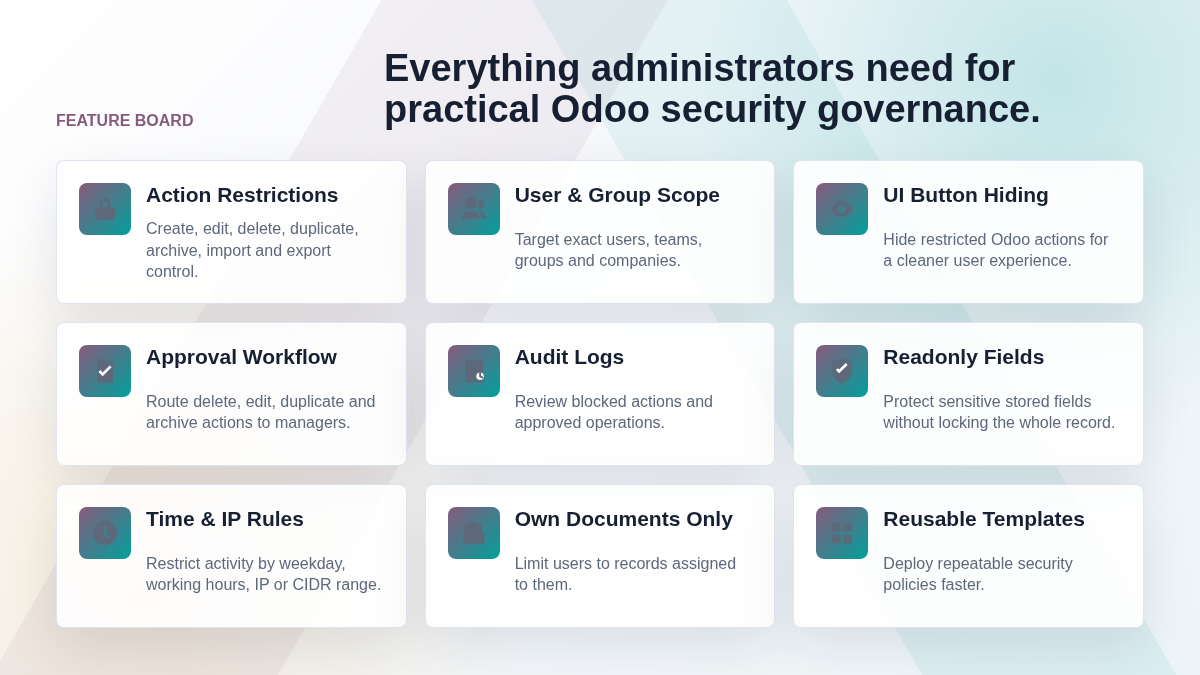
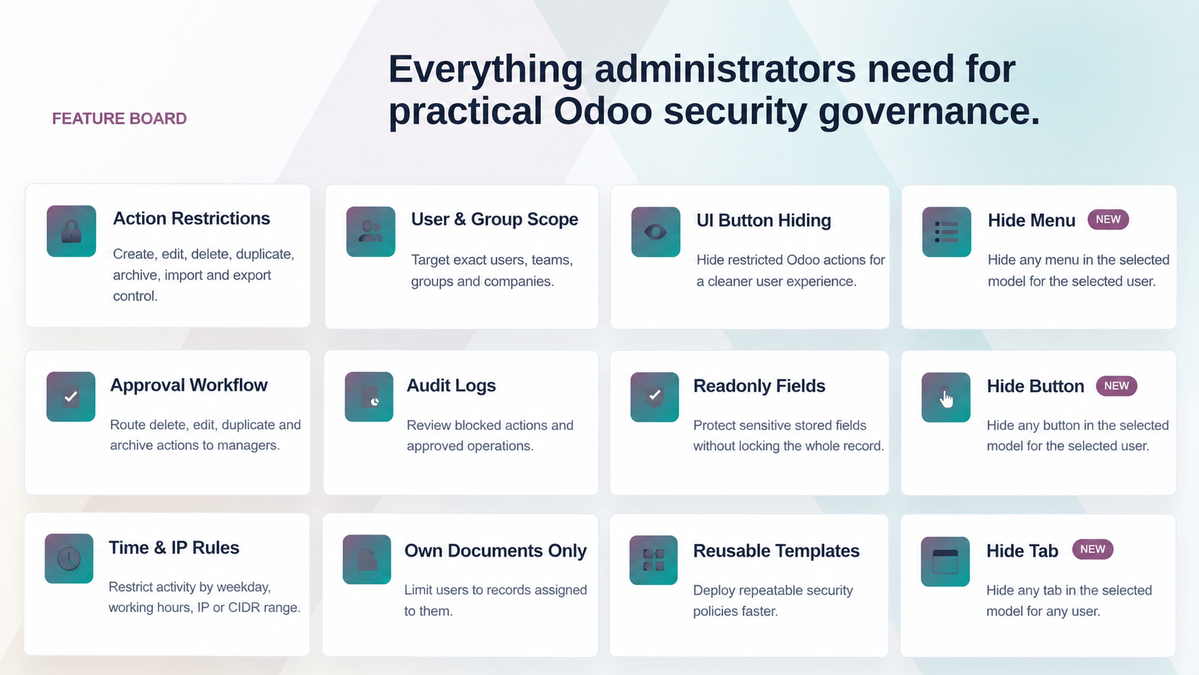
Add dynamic features to hide buttons, menus, and tabs for improved user access control

diff --git a/dynamic_restriction/static/description/index.html b/dynamic_restriction/static/description/index.html
@@ -610,18 +610,6 @@
         <section class="odx-section">
             <div class="odx-section-head">
                 <div>
-                    <div class="odx-eyebrow">Hide Buttons &amp; Tabs</div>
-                    <h2>Hide Buttons &amp; Tabs</h2>
-                </div>
-                <p>Admins can hide specific form buttons and notebook tabs for selected users, groups, and companies in Odoo 19 form views. Use Load View Elements after selecting a model, then choose from discovered buttons and tabs instead of typing technical names manually.</p>
-            </div>
-            <p>Devodoox</p>
-            <p><a href="mailto:[email redacted]">[email redacted]</a></p>
-        </section>
-
-        <section class="odx-section">
-            <div class="odx-section-head">
-                <div>
                     <div class="odx-eyebrow">Detailed Features</div>
                     <h2>Feature walkthrough from the included module screenshots.</h2>
                 </div>
@@ -635,7 +623,7 @@
                     <p>Dynamic Access Manager appears as its own Odoo application, giving administrators a clear entry point for managing security policies, approvals, and logs.</p>
                 </div>
                 <div class="odx-shot-image">
-                    <img class="module-screenshot" src="screenshots/screen_01.png" alt="Dynamic Access Manager app launcher icon" loading="lazy">
+                    <img class="module-screenshot" src="screenshots/screen_01.png" width="1400" height="600" alt="Dynamic Access Manager app launcher icon" loading="lazy">
                 </div>
             </article>
 
@@ -646,7 +634,7 @@
                     <p>The main restriction form combines model scope, users, groups, companies, blocked actions, readonly fields, approval rules, ownership, IP rules, and UI hiding in one configuration screen.</p>
                 </div>
                 <div class="odx-shot-image">
-                    <img class="module-screenshot" src="screenshots/screen_02.png" alt="Dynamic Access Manager main restriction configuration form" loading="lazy">
+                    <img class="module-screenshot" src="screenshots/screen_02.png" width="1400" height="600" alt="Dynamic Access Manager main restriction configuration form" loading="lazy">
                 </div>
             </article>
 
@@ -657,7 +645,7 @@
                     <p>When a user tries to edit a protected Sales Order, the action is blocked with a clear Odoo warning. The restriction is enforced server-side, not only hidden in the interface.</p>
                 </div>
                 <div class="odx-shot-image">
-                    <img class="module-screenshot" src="screenshots/screen_03.png" alt="Blocked edit warning on Sales Order" loading="lazy">
+                    <img class="module-screenshot" src="screenshots/screen_03.png" width="1400" height="600" alt="Blocked edit warning on Sales Order" loading="lazy">
                 </div>
             </article>
 
@@ -668,7 +656,7 @@
                     <p>Restricted users can be guided away from unavailable actions. In the Sales quotations screen, the create action is hidden to keep the interface clean and predictable.</p>
                 </div>
                 <div class="odx-shot-image">
-                    <img class="module-screenshot" src="screenshots/screen_04.png" alt="Sales quotation screen with create action hidden" loading="lazy">
+                    <img class="module-screenshot" src="screenshots/screen_04.png"  width="1400" height="600" alt="Sales quotation screen with create action hidden" loading="lazy">
                 </div>
             </article>
 
@@ -679,7 +667,7 @@
                     <p>Ownership restrictions limit CRM users to records assigned to them. The screenshot shows the CRM pipeline filtered to the current user's own opportunities.</p>
                 </div>
                 <div class="odx-shot-image">
-                    <img class="module-screenshot" src="screenshots/screen_05.png" alt="CRM pipeline with own documents restriction" loading="lazy">
+                    <img class="module-screenshot" src="screenshots/screen_05.png" width="1400" height="600" alt="CRM pipeline with own documents restriction" loading="lazy">
                 </div>
             </article>
 
@@ -690,7 +678,7 @@
                     <p>For actions that should not be permanently blocked, the module can create an approval request instead. Users receive immediate feedback that a request has been created.</p>
                 </div>
                 <div class="odx-shot-image">
-                    <img class="module-screenshot" src="screenshots/screen_06.png" alt="Approval required message after restricted CRM action" loading="lazy">
+                    <img class="module-screenshot" src="screenshots/screen_06.png" width="1400" height="600" alt="Approval required message after restricted CRM action" loading="lazy">
                 </div>
             </article>
 
@@ -701,7 +689,7 @@
                     <p>Managers can review pending and approved requests from a dedicated Approval Requests menu, with user, action, model, record, state, and reviewer information visible at a glance.</p>
                 </div>
                 <div class="odx-shot-image">
-                    <img class="module-screenshot" src="screenshots/screen_07.png" alt="Dynamic Access Manager approval requests list" loading="lazy">
+                    <img class="module-screenshot" src="screenshots/screen_07.png" width="1400" height="600" alt="Dynamic Access Manager approval requests list" loading="lazy">
                 </div>
             </article>
 
@@ -712,7 +700,43 @@
                     <p>Administrators can inspect blocked operations and approval events from the Audit Logs menu, including date, user, action, model, record, restriction, and company details.</p>
                 </div>
                 <div class="odx-shot-image">
-                    <img class="module-screenshot" src="screenshots/screen_08.png" alt="Dynamic Access Manager audit logs list" loading="lazy">
+                    <img class="module-screenshot" src="screenshots/screen_08.png" width="1400" height="600" alt="Dynamic Access Manager audit logs list" loading="lazy">
+                </div>
+            </article>
+
+            <!-- Hide Buttons -->
+            <article class="odx-shot feature-card">
+                <div class="odx-shot-copy">
+                    <span class="odx-shot-number">09</span>
+                    <h3>Hide Any Button</h3>
+                    <p>Control user access by hiding specific buttons from form and list views. Restrict actions such as Create, Edit, Delete, Duplicate, Export, and custom buttons without any custom development.</p>
+                </div>
+                <div class="odx-shot-image">
+                    <img class="module-screenshot" src="screenshots/screen_09.png" width="1400" height="600" alt="Dynamic Restrictions hide buttons feature" loading="lazy">
+                </div>
+            </article>
+
+            <!-- Hide Menus -->
+            <article class="odx-shot feature-card">
+                <div class="odx-shot-copy">
+                    <span class="odx-shot-number">10</span>
+                    <h3>Hide Any Menu</h3>
+                    <p>Easily hide any menu item for selected users or groups. Simplify navigation, prevent unauthorized access, and create a cleaner Odoo experience tailored to each user role.</p>
+                </div>
+                <div class="odx-shot-image">
+                    <img class="module-screenshot" src="screenshots/screen_11.png" width="1400" height="600" alt="Dynamic Restrictions hide menus feature" loading="lazy">
+                </div>
+            </article>
+
+            <!-- Hide Tabs -->
+            <article class="odx-shot feature-card">
+                <div class="odx-shot-copy">
+                    <span class="odx-shot-number">11</span>
+                    <h3>Hide Any Tab</h3>
+                    <p>Show only the information users need by hiding specific notebook tabs within forms. Improve usability, reduce clutter, and protect sensitive data from unauthorized users.</p>
+                </div>
+                <div class="odx-shot-image">
+                    <img class="module-screenshot" src="screenshots/screen_10.png" width="1400" height="600" alt="Dynamic Restrictions hide tabs feature" loading="lazy">
                 </div>
             </article>
         </section>